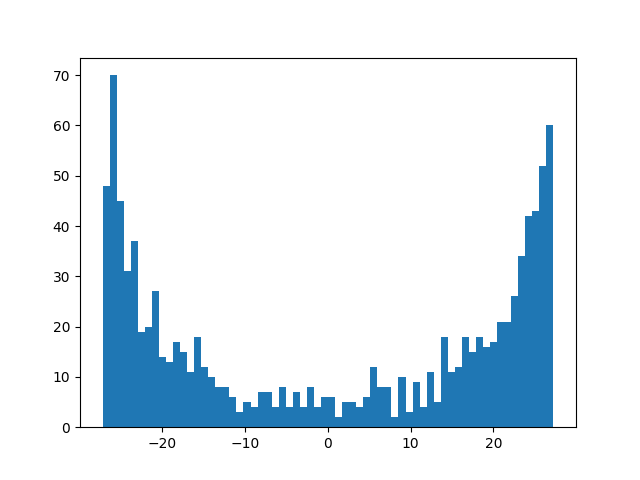
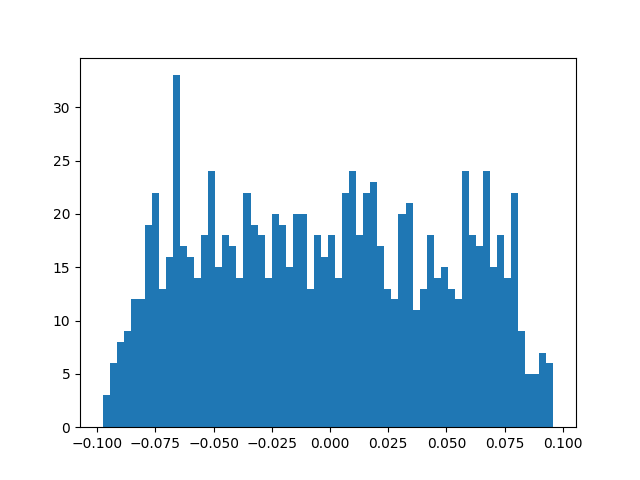
commit mean implementation of GAN,reduce lr,initial parameter to zero

diff --git a/GAN/generate_normal.py b/GAN/generate_normal.py
@@ -12,9 +12,9 @@ UPDATEDTIME = 16
 import torch
 import matplotlib.pyplot as plt
 D_net = Discriminator().to(torch.device('cuda:0'))
-D_optim = torch.optim.Adam(D_net.parameters(),lr=0.001)
+D_optim = torch.optim.Adam(D_net.parameters(),lr=0.00001)
 G_net = Generator().to(torch.device('cuda:0'))
-G_optimizer = torch.optim.Adam(G_net.parameters(),lr=0.001)
+G_optimizer = torch.optim.Adam(G_net.parameters(),lr=0.00001)
 from torch.nn import BCELoss
 
 # def print(x,y,c,figname):
@@ -33,6 +33,8 @@ if __name__ == "__main__":
     from tqdm import tqdm
     normal = Normal(0,1)
     lossfunc = BCELoss()
+    from torch.utils.tensorboard import SummaryWriter
+    writer = SummaryWriter('./log/GANtrain')
     for epoch in tqdm(range(EPOCH)):
         for _ in range(UPDATEDTIME):
             realsample = normal.sample((BATCHSIZE,Distributionsize)).cuda()
@@ -41,24 +43,40 @@ if __name__ == "__main__":
             D_optim.zero_grad()
             loss = 0
             realpredict = D_net(realsample)
-            loss += lossfunc(realpredict[:,0],torch.ones_like(realpredict[:,0]))
+            # print("shape of predict is ",realpredict.shape)
+            # print("possibility is",realpredict)
+            # print("mean is ",realpredict.mean())
+            # exit()
+            loss -= realpredict.mean()
             # -log p_real p_real is larger
             fakepredict = D_net(fakeresult)
-            loss += lossfunc(fakepredict[:,1],torch.ones_like(fakepredict[:,1]))
+            fakepredict = torch.ones_like(fakepredict) - fakepredict
+            # print("fake is",fakepredict)
+            # exit()
+            loss -= fakepredict.mean()
             # -log (1-p_real)=-log p_fake
+            # loss = log p_real + log p_fake
             loss.backward()
         G_optimizer.zero_grad()
         noise = torch.rand((BATCHSIZE,32)).cuda()
-        GeneratorDiscrim = D_net(G_net(noise))[:,0]
-        loss = -lossfunc(GeneratorDiscrim,torch.ones_like(GeneratorDiscrim))
+        GeneratorDiscrim = D_net(G_net(noise))
+        # loss = 0
+        GeneratorDiscrim = torch.ones_like(GeneratorDiscrim) - GeneratorDiscrim
+        loss = GeneratorDiscrim.mean()
+        # loss = -log p_real
         # likelihood is p,BCEL return -log p for Generator we want p is samaller 
         loss.backward()
+        writer.add_scalar('lossgan',loss,epoch)
         G_optimizer.step()
         if epoch % 128 == 0:
-            noise = torch.rand((1,32)).cuda()
+            # noise = torch.rand((1,32)).cuda()
+            noise = noise[0]
+            noise = torch.reshape(noise,(1,32))
+            # print("noise shape",noise.shape)
             dis = G_net(noise).squeeze(0).detach().cpu()
             plt.hist(dis,bins=64)
             plt.savefig("./pic/figure"+str(int(epoch/128))+'.png')
+            print("from real data",D_net(G_net(noise)))
             plt.close()
             # print(dis.shape)
             # exit()

diff --git a/GAN/Generate_model/Discriminator.py b/GAN/Generate_model/Discriminator.py
@@ -12,4 +12,4 @@ class Discriminator(nn.Module):
         )
     
     def forward(self,x):
-        return softmax(self.indentifier(x))
+        return softmax(self.indentifier(x))[:,0]
